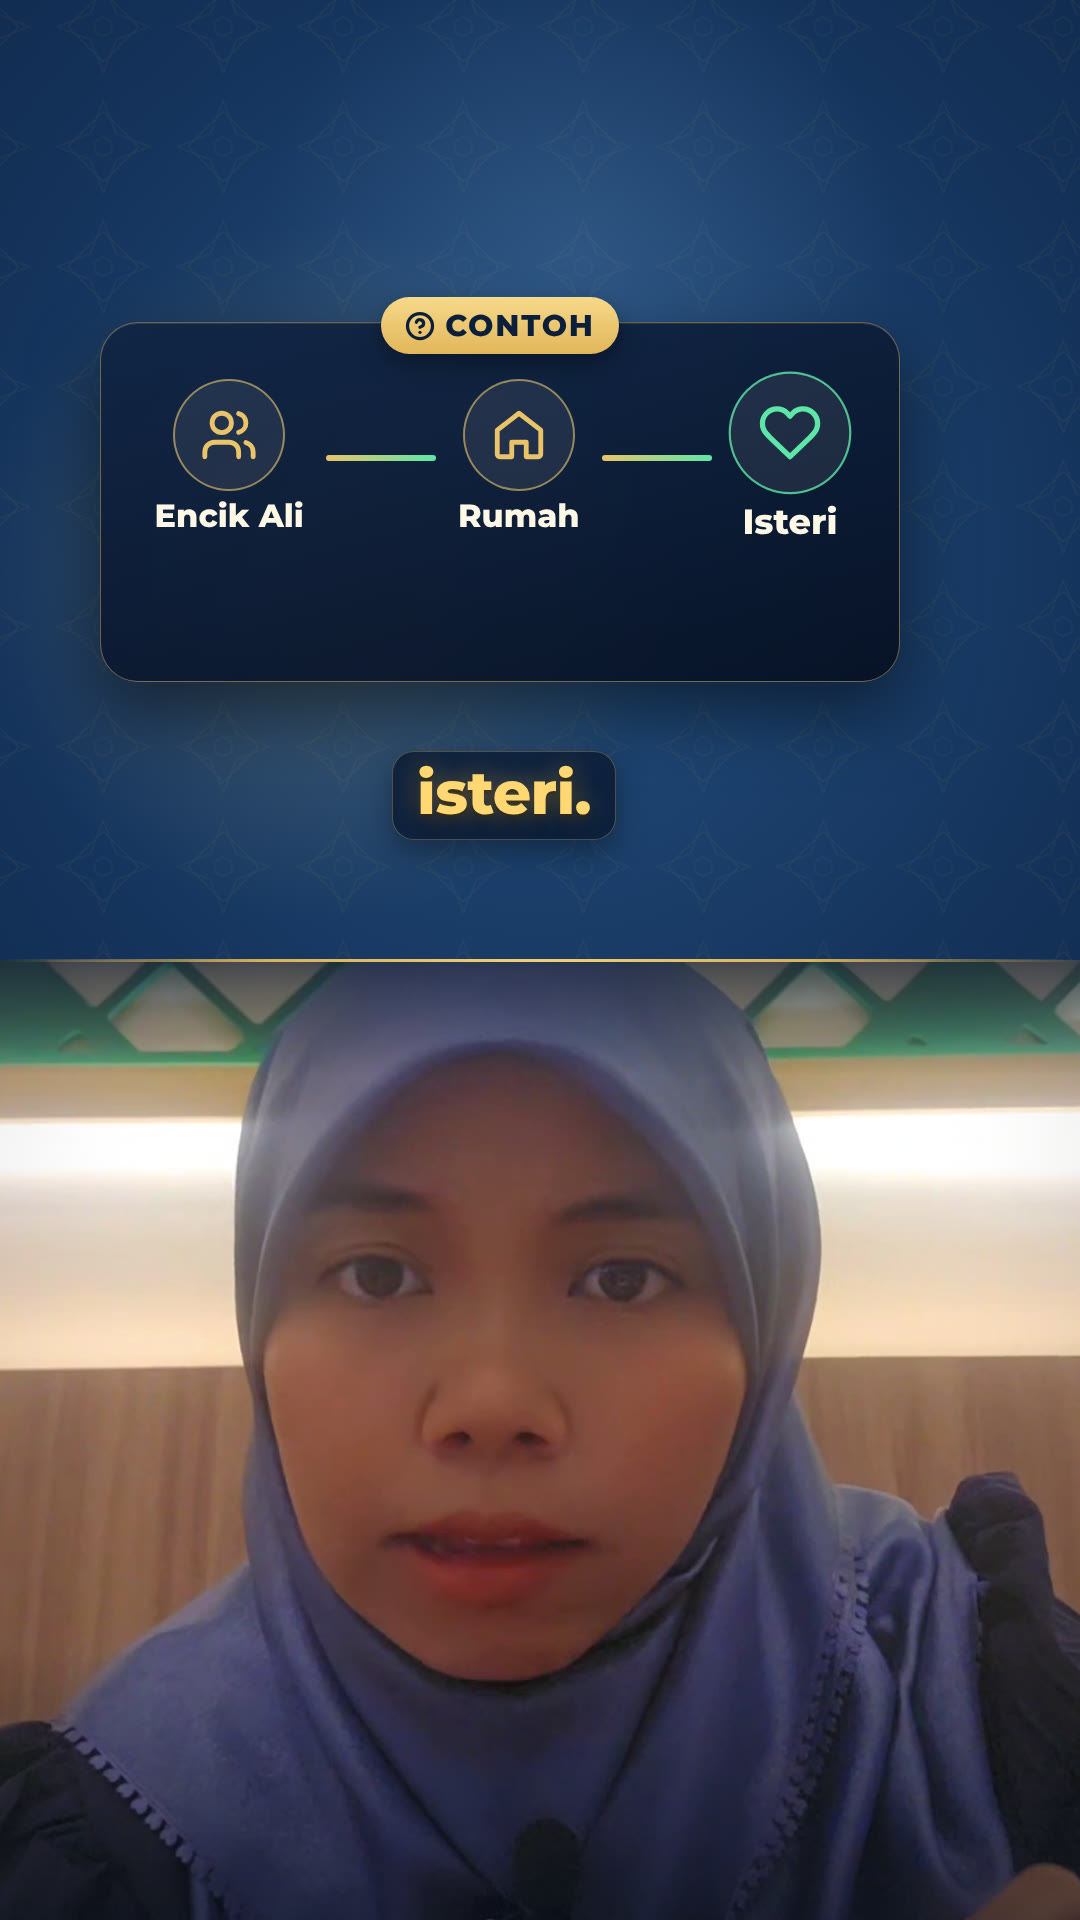
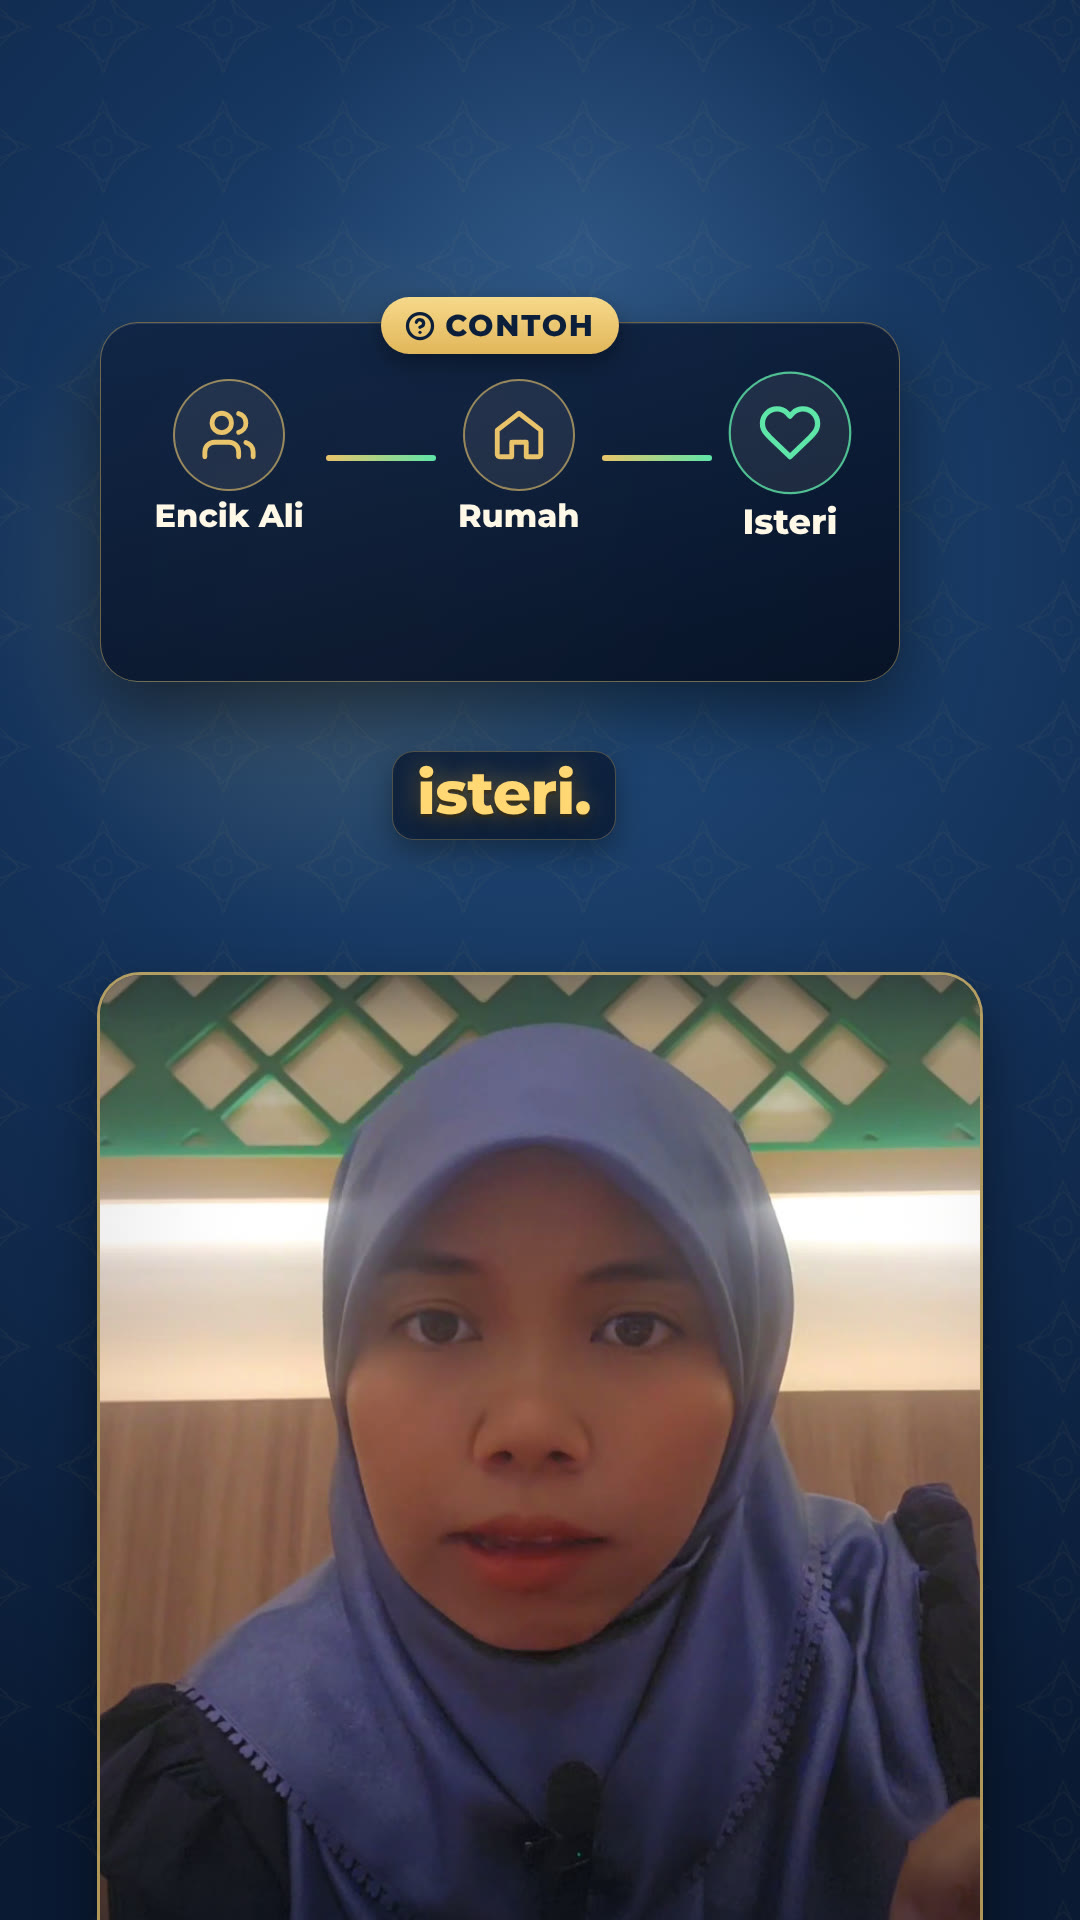
Shrink the speaker into a framed window so the whole hijab stays in frame
Claude-Session: https://claude.ai/code/session_01RHe32gyipqnpCdvLq9eXyk

Changed region(s): [[0.0, 0.5, 1.0, 1.0], [0.0917, 0.9688, 0.1222, 1.0]]

diff --git a/wasiat-hibah-reel/index.html b/wasiat-hibah-reel/index.html
@@ -14,12 +14,13 @@
       .orb { position: absolute; border-radius: 50%; }
       #orb1 { left: -220px; top: 60px; width: 760px; height: 760px; background: radial-gradient(circle, rgba(233,196,106,.20) 0%, rgba(233,196,106,0) 65%); }
       #orb3 { left: 360px; top: -260px; width: 700px; height: 700px; background: radial-gradient(circle, rgba(140,190,240,.16) 0%, rgba(140,190,240,0) 65%); }
-      #stage { position: absolute; left: 0; top: 960px; width: 1080px; height: 960px; z-index: 1; overflow: hidden; background: #0A1A33; }
+      #stage { position: absolute; left: 100px; top: 975px; width: 880px; height: 985px; z-index: 1; overflow: hidden; background: #0A1A33;
+        border-radius: 40px; box-shadow: 0 0 0 3px rgba(233,196,106,.75), 0 24px 60px rgba(0,0,0,.5); }
       #shake { position: absolute; inset: -20px; }
       #cam { position: absolute; left: 20px; top: 20px; width: 1080px; height: 1920px; transform-origin: 0 0; }
       #aroll { position: absolute; left: 0; top: 0; width: 1080px; height: 1920px; object-fit: cover; }
       #stage-vig { position: absolute; inset: 0; z-index: 2; pointer-events: none;
-        background: linear-gradient(180deg, rgba(10,26,51,.65) 0%, rgba(10,26,51,0) 12%, rgba(10,26,51,0) 72%, rgba(6,15,32,.5) 100%); }
+        background: linear-gradient(180deg, rgba(10,26,51,.30) 0%, rgba(10,26,51,0) 6%, rgba(10,26,51,0) 72%, rgba(6,15,32,.5) 100%); }
       #stage-line { position: absolute; left: 0; width: 1080px; top: 959px; height: 3px; z-index: 3;
         background: linear-gradient(90deg, rgba(217,178,92,0), #D9B25C 25%, #F2CF76 50%, #D9B25C 75%, rgba(217,178,92,0)); }
       #flash { position: absolute; inset: 0; z-index: 9; background: #fff; opacity: 0; }
@@ -33,7 +34,6 @@
       <div id="stage" data-layout-ignore><div id="shake"><div id="cam">
         <video id="aroll" data-color-grading="{&quot;preset&quot;:&quot;skin-soft&quot;,&quot;intensity&quot;:0.6,&quot;adjust&quot;:{&quot;exposure&quot;:0.13,&quot;contrast&quot;:0.08,&quot;highlights&quot;:-0.24,&quot;shadows&quot;:0.12,&quot;whites&quot;:-0.06,&quot;blacks&quot;:0,&quot;temperature&quot;:0.03,&quot;tint&quot;:0.01,&quot;vibrance&quot;:0.06,&quot;saturation&quot;:0.04},&quot;details&quot;:{&quot;vignette&quot;:0.12,&quot;vignetteMidpoint&quot;:0.5,&quot;vignetteRoundness&quot;:0,&quot;vignetteFeather&quot;:0.65,&quot;grain&quot;:0,&quot;grainSize&quot;:0.25,&quot;grainRoughness&quot;:0.5},&quot;effects&quot;:{&quot;blur&quot;:0,&quot;pixelate&quot;:0,&quot;chromaBleed&quot;:0,&quot;tapeDamage&quot;:0,&quot;tapeTracking&quot;:0,&quot;tapeNoise&quot;:1,&quot;tapeSpeed&quot;:0.5,&quot;filmArtifacts&quot;:0,&quot;halftone&quot;:0,&quot;halftoneSize&quot;:0,&quot;twoInkPrint&quot;:0,&quot;twoInkPrintSize&quot;:0,&quot;ascii&quot;:0,&quot;asciiSize&quot;:0.06578947368421052,&quot;asciiInvert&quot;:0,&quot;asciiStyle&quot;:0,&quot;asciiColor&quot;:1,&quot;asciiRotation&quot;:0,&quot;dither&quot;:0,&quot;ditherSize&quot;:0,&quot;bloom&quot;:0,&quot;bloomRadius&quot;:8,&quot;monoScreen&quot;:0,&quot;monoScreenSize&quot;:0,&quot;monoScreenAngle&quot;:0,&quot;monoScreenSpread&quot;:0,&quot;monoScreenShape&quot;:0,&quot;monoScreenInvert&quot;:0,&quot;scanlines&quot;:0,&quot;scanlineCount&quot;:0,&quot;scanlineSoftness&quot;:0,&quot;chromaticAberration&quot;:0,&quot;chromaticAngle&quot;:0,&quot;crtCurvature&quot;:0,&quot;digitalGlitch&quot;:0,&quot;digitalGlitchColorSplit&quot;:0,&quot;digitalGlitchLineTear&quot;:0,&quot;digitalGlitchPixelate&quot;:0,&quot;digitalGlitchBlockAmount&quot;:0,&quot;digitalGlitchBlockDisplacement&quot;:0,&quot;digitalGlitchBlockOpacity&quot;:0,&quot;digitalGlitchSpeed&quot;:0,&quot;engraving&quot;:0,&quot;engravingSpacing&quot;:0.4117647058823529,&quot;engravingMinThickness&quot;:0.2,&quot;engravingMaxThickness&quot;:0.4571428571428572,&quot;engravingAngle&quot;:0.25,&quot;engravingContrast&quot;:0.4666666666666667,&quot;engravingSharpness&quot;:0.59,&quot;engravingWave&quot;:0.2,&quot;engravingWaveFrequency&quot;:0.2222222222222222,&quot;crosshatch&quot;:0,&quot;crosshatchSpacing&quot;:0.28,&quot;crosshatchThickness&quot;:0.25,&quot;crosshatchAngle&quot;:0.25,&quot;crosshatchContrast&quot;:0.3333333333333333,&quot;crosshatchEdges&quot;:0.5,&quot;crosshatchLineWeight&quot;:0,&quot;crosshatchWave&quot;:0.33,&quot;crosshatchWaveFrequency&quot;:0.2222222222222222,&quot;kuwahara&quot;:0,&quot;kuwaharaRadius&quot;:0.14285714285714285,&quot;kuwaharaSharpness&quot;:0.3125,&quot;kuwaharaSaturation&quot;:0.5},&quot;lut&quot;:null,&quot;colorSpace&quot;:&quot;rec709&quot;}" class="clip" src="assets/aroll.mp4" data-start="0" data-duration="110.18" data-track-index="0" muted playsinline></video>
       </div></div><div id="stage-vig"></div></div>
-      <div id="stage-line" data-layout-ignore></div>
       <audio id="voice" class="clip" src="assets/voice.wav" data-start="0" data-duration="110.18" data-volume="1" data-track-index="1"></audio>
       <div id="hook" class="clip scene" data-composition-id="hook" data-composition-src="compositions/hook.html" data-start="0.0" data-duration="4.8" data-track-index="2" data-track-kind="graphics" data-width="1080" data-height="1920"></div>
       <div id="tidak" class="clip scene" data-composition-id="tidak" data-composition-src="compositions/tidak.html" data-start="4.8" data-duration="2.25" data-track-index="2" data-track-kind="graphics" data-width="1080" data-height="1920"></div>
@@ -127,12 +127,12 @@
     </div>
     <script>
       const tl = gsap.timeline({ paused: true });
-      const CAM = [[0.0, 0.273, 0.0, -660.0, 1.0, -10.1, -679.0, 1.02], [0.273, 2.303, 0.0, -660.0, 1.0, -10.1, -679.0, 1.02], [2.576, 1.939, -60.6, -774.0, 1.12, -70.7, -793.0, 1.14], [4.515, 0.333, 0.0, -660.0, 1.0, -10.1, -679.0, 1.02], [4.848, 1.091, 0.0, -660.0, 1.0, -10.1, -679.0, 1.02], [5.939, 1.061, -60.6, -774.0, 1.12, -70.7, -793.0, 1.14], [7.0, 0.455, 0.0, -660.0, 1.0, -10.1, -679.0, 1.02], [7.455, 2.182, 0.0, -660.0, 1.0, -10.1, -679.0, 1.02], [9.636, 4.273, -60.6, -774.0, 1.12, -70.7, -793.0, 1.14], [13.909, 0.303, 0.0, -660.0, 1.0, -10.1, -679.0, 1.02], [14.212, 1.152, 0.0, -660.0, 1.0, -10.1, -679.0, 1.02], [15.364, 1.636, -60.6, -774.0, 1.12, -70.7, -793.0, 1.14], [17.0, 2.606, 0.0, -660.0, 1.0, -10.1, -679.0, 1.02], [19.606, 3.0, -60.6, -774.0, 1.12, -70.7, -793.0, 1.14], [22.606, 3.545, 0.0, -660.0, 1.0, -10.1, -679.0, 1.02], [26.152, 3.485, -60.6, -774.0, 1.12, -70.7, -793.0, 1.14], [29.636, 0.364, 0.0, -660.0, 1.0, -10.1, -679.0, 1.02], [30.0, 2.515, 0.0, -660.0, 1.0, -10.1, -679.0, 1.02], [32.515, 1.333, -60.6, -774.0, 1.12, -70.7, -793.0, 1.14], [33.848, 2.455, 0.0, -660.0, 1.0, -10.1, -679.0, 1.02], [36.303, 2.818, -60.6, -774.0, 1.12, -70.7, -793.0, 1.14], [39.121, 1.121, 0.0, -660.0, 1.0, -10.1, -679.0, 1.02], [40.242, 2.212, -60.6, -774.0, 1.12, -70.7, -793.0, 1.14], [42.455, 0.515, 0.0, -660.0, 1.0, -10.1, -679.0, 1.02], [42.97, 0.848, 0.0, -660.0, 1.0, -10.1, -679.0, 1.02], [43.818, 1.303, -60.6, -774.0, 1.12, -70.7, -793.0, 1.14], [45.121, 1.121, 0.0, -660.0, 1.0, -10.1, -679.0, 1.02], [46.242, 1.939, -60.6, -774.0, 1.12, -70.7, -793.0, 1.14], [48.182, 0.424, 0.0, -660.0, 1.0, -10.1, -679.0, 1.02], [48.606, 0.576, 0.0, -660.0, 1.0, -10.1, -679.0, 1.02], [49.182, 5.455, -60.6, -774.0, 1.12, -70.7, -793.0, 1.14], [54.636, 1.152, 0.0, -660.0, 1.0, -10.1, -679.0, 1.02], [55.788, 2.212, -60.6, -774.0, 1.12, -70.7, -793.0, 1.14], [58.0, 0.242, 0.0, -660.0, 1.0, -10.1, -679.0, 1.02], [58.242, 0.758, 0.0, -660.0, 1.0, -10.1, -679.0, 1.02], [59.0, 1.515, -60.6, -774.0, 1.12, -70.7, -793.0, 1.14], [60.515, 2.727, 0.0, -660.0, 1.0, -10.1, -679.0, 1.02], [63.242, 2.212, -60.6, -774.0, 1.12, -70.7, -793.0, 1.14], [65.455, 0.273, 0.0, -660.0, 1.0, -10.1, -679.0, 1.02], [65.727, 4.576, 0.0, -660.0, 1.0, -10.1, -679.0, 1.02], [70.303, 5.727, -60.6, -774.0, 1.12, -70.7, -793.0, 1.14], [76.03, 0.576, 0.0, -660.0, 1.0, -10.1, -679.0, 1.02], [76.606, 0.909, 0.0, -660.0, 1.0, -10.1, -679.0, 1.02], [77.515, 2.455, -60.6, -774.0, 1.12, -70.7, -793.0, 1.14], [79.97, 2.212, 0.0, -660.0, 1.0, -10.1, -679.0, 1.02], [82.182, 4.061, -60.6, -774.0, 1.12, -70.7, -793.0, 1.14], [86.242, 2.0, 0.0, -660.0, 1.0, -10.1, -679.0, 1.02], [88.242, 6.758, -60.6, -774.0, 1.12, -70.7, -793.0, 1.14], [95.0, 0.333, 0.0, -660.0, 1.0, -10.1, -679.0, 1.02], [95.333, 3.939, 0.0, -660.0, 1.0, -10.1, -679.0, 1.02], [99.273, 1.667, -60.6, -774.0, 1.12, -70.7, -793.0, 1.14], [100.939, 0.242, 0.0, -660.0, 1.0, -10.1, -679.0, 1.02], [101.182, 2.242, 0.0, -660.0, 1.0, -10.1, -679.0, 1.02], [103.424, 2.909, -60.6, -774.0, 1.12, -70.7, -793.0, 1.14], [106.333, 0.242, 0.0, -660.0, 1.0, -10.1, -679.0, 1.02], [106.576, 3.606, 0.0, -660.0, 1.0, -10.1, -679.0, 1.02]];
+      const CAM = [[0.0, 0.273, -12.0, -468.0, 0.84, -12.0, -482.25, 0.855], [0.273, 2.303, -12.0, -468.0, 0.84, -12.0, -482.25, 0.855], [2.576, 1.939, -14.5, -525.0, 0.9, -22.08, -539.25, 0.915], [4.515, 0.333, -12.0, -468.0, 0.84, -12.0, -482.25, 0.855], [4.848, 1.091, -12.0, -468.0, 0.84, -12.0, -482.25, 0.855], [5.939, 1.061, -14.5, -525.0, 0.9, -22.08, -539.25, 0.915], [7.0, 0.455, -12.0, -468.0, 0.84, -12.0, -482.25, 0.855], [7.455, 2.182, -12.0, -468.0, 0.84, -12.0, -482.25, 0.855], [9.636, 4.273, -14.5, -525.0, 0.9, -22.08, -539.25, 0.915], [13.909, 0.303, -12.0, -468.0, 0.84, -12.0, -482.25, 0.855], [14.212, 1.152, -12.0, -468.0, 0.84, -12.0, -482.25, 0.855], [15.364, 1.636, -14.5, -525.0, 0.9, -22.08, -539.25, 0.915], [17.0, 2.606, -12.0, -468.0, 0.84, -12.0, -482.25, 0.855], [19.606, 3.0, -14.5, -525.0, 0.9, -22.08, -539.25, 0.915], [22.606, 3.545, -12.0, -468.0, 0.84, -12.0, -482.25, 0.855], [26.152, 3.485, -14.5, -525.0, 0.9, -22.08, -539.25, 0.915], [29.636, 0.364, -12.0, -468.0, 0.84, -12.0, -482.25, 0.855], [30.0, 2.515, -12.0, -468.0, 0.84, -12.0, -482.25, 0.855], [32.515, 1.333, -14.5, -525.0, 0.9, -22.08, -539.25, 0.915], [33.848, 2.455, -12.0, -468.0, 0.84, -12.0, -482.25, 0.855], [36.303, 2.818, -14.5, -525.0, 0.9, -22.08, -539.25, 0.915], [39.121, 1.121, -12.0, -468.0, 0.84, -12.0, -482.25, 0.855], [40.242, 2.212, -14.5, -525.0, 0.9, -22.08, -539.25, 0.915], [42.455, 0.515, -12.0, -468.0, 0.84, -12.0, -482.25, 0.855], [42.97, 0.848, -12.0, -468.0, 0.84, -12.0, -482.25, 0.855], [43.818, 1.303, -14.5, -525.0, 0.9, -22.08, -539.25, 0.915], [45.121, 1.121, -12.0, -468.0, 0.84, -12.0, -482.25, 0.855], [46.242, 1.939, -14.5, -525.0, 0.9, -22.08, -539.25, 0.915], [48.182, 0.424, -12.0, -468.0, 0.84, -12.0, -482.25, 0.855], [48.606, 0.576, -12.0, -468.0, 0.84, -12.0, -482.25, 0.855], [49.182, 5.455, -14.5, -525.0, 0.9, -22.08, -539.25, 0.915], [54.636, 1.152, -12.0, -468.0, 0.84, -12.0, -482.25, 0.855], [55.788, 2.212, -14.5, -525.0, 0.9, -22.08, -539.25, 0.915], [58.0, 0.242, -12.0, -468.0, 0.84, -12.0, -482.25, 0.855], [58.242, 0.758, -12.0, -468.0, 0.84, -12.0, -482.25, 0.855], [59.0, 1.515, -14.5, -525.0, 0.9, -22.08, -539.25, 0.915], [60.515, 2.727, -12.0, -468.0, 0.84, -12.0, -482.25, 0.855], [63.242, 2.212, -14.5, -525.0, 0.9, -22.08, -539.25, 0.915], [65.455, 0.273, -12.0, -468.0, 0.84, -12.0, -482.25, 0.855], [65.727, 4.576, -12.0, -468.0, 0.84, -12.0, -482.25, 0.855], [70.303, 5.727, -14.5, -525.0, 0.9, -22.08, -539.25, 0.915], [76.03, 0.576, -12.0, -468.0, 0.84, -12.0, -482.25, 0.855], [76.606, 0.909, -12.0, -468.0, 0.84, -12.0, -482.25, 0.855], [77.515, 2.455, -14.5, -525.0, 0.9, -22.08, -539.25, 0.915], [79.97, 2.212, -12.0, -468.0, 0.84, -12.0, -482.25, 0.855], [82.182, 4.061, -14.5, -525.0, 0.9, -22.08, -539.25, 0.915], [86.242, 2.0, -12.0, -468.0, 0.84, -12.0, -482.25, 0.855], [88.242, 6.758, -14.5, -525.0, 0.9, -22.08, -539.25, 0.915], [95.0, 0.333, -12.0, -468.0, 0.84, -12.0, -482.25, 0.855], [95.333, 3.939, -12.0, -468.0, 0.84, -12.0, -482.25, 0.855], [99.273, 1.667, -14.5, -525.0, 0.9, -22.08, -539.25, 0.915], [100.939, 0.242, -12.0, -468.0, 0.84, -12.0, -482.25, 0.855], [101.182, 2.242, -12.0, -468.0, 0.84, -12.0, -482.25, 0.855], [103.424, 2.909, -14.5, -525.0, 0.9, -22.08, -539.25, 0.915], [106.333, 0.242, -12.0, -468.0, 0.84, -12.0, -482.25, 0.855], [106.576, 3.606, -12.0, -468.0, 0.84, -12.0, -482.25, 0.855]];
       CAM.forEach(([t, d, x0, y0, s0, x1, y1, s1]) => {
         tl.set('#cam', { x: x0, y: y0, scale: s0 }, t);
         tl.to('#cam', { x: x1, y: y1, scale: s1, duration: d, ease: 'none' }, t);
       });
-      tl.to('#cam', { x: -126.25, y: -897.5, scale: 1.25, duration: 0.25, ease: 'power3.out' }, 7.42);
+      tl.to('#cam', { x: -39.75, y: -572.5, scale: 0.95, duration: 0.25, ease: 'power3.out' }, 7.42);
       tl.set('#flash', { opacity: 0 }, 0);
       tl.fromTo('#orb1', { x: 0, y: 0 }, { x: 200, y: 160, duration: 110.18, ease: 'sine.inOut' }, 0);
       tl.fromTo('#orb3', { x: 0, y: 0 }, { x: -160, y: 200, duration: 110.18, ease: 'sine.inOut' }, 0);

diff --git a/wasiat-hibah-reel/tools/build.py b/wasiat-hibah-reel/tools/build.py
@@ -456,18 +456,25 @@ with open(os.path.join(PROJ, "compositions", "captions.html"), "w") as f:
 # Split layout: navy panel area on top (cards + captions), speaker in the stage y 960..1920.
 STAGE_T = 960
 FX, FY = 505.0, 950.0     # face anchor in source px
-SX, SY = 505.0, 290.0     # where that anchor sits inside the stage (stage-relative px)
+# The speaker sits in a framed window (x 100..980, y 975..1920) at 0.82x so the whole
+# hijab stays inside the frame, even on the punch-ins.
+WIN_L, WIN_T, WIN_W = 100, 975, 880
+WIN_H = H - WIN_T
+SX, SY = WIN_W / 2, 330.0  # where that anchor sits inside the window (window-relative px)
+BASE, PUNCH = 0.84, 0.90
 def tf(s):
-    return [round(SX - FX * s, 2), round(SY - FY * s, 2), round(s, 4)]
+    x = min(-12.0, max(WIN_W - W * s + 12, SX - FX * s))   # never show the edge of the footage (12 px spare for shakes)
+    y = min(0.0, max(WIN_H + 40 - H * s, SY - FY * s))
+    return [round(x, 2), round(y, 2), round(s, 4)]
 cam, big, held = [], False, 0.0
 for i, p in enumerate(pieces):
     if i > 0 and held >= 1.0:
         big = not big; held = 0.0
     held += p["od"]
-    sc = 1.12 if big else 1.0
-    cam.append([round(p["out0"], 3), round(p["od"], 3)] + tf(sc) + tf(sc + 0.02))
+    sc = PUNCH if big else BASE
+    cam.append([round(p["out0"], 3), round(p["od"], 3)] + tf(sc) + tf(sc + 0.015))
 # Giant hook: hard punch to 1.25 under the overlay; last segment push-in
-GIANT_PUSH = tf(1.25)
+GIANT_PUSH = tf(0.95)
 
 # ================================================================ SFX (no music)
 SFX = [
@@ -523,12 +530,13 @@ index = f"""<!doctype html>
       .orb {{ position: absolute; border-radius: 50%; }}
       #orb1 {{ left: -220px; top: 60px; width: 760px; height: 760px; background: radial-gradient(circle, rgba(233,196,106,.20) 0%, rgba(233,196,106,0) 65%); }}
       #orb3 {{ left: 360px; top: -260px; width: 700px; height: 700px; background: radial-gradient(circle, rgba(140,190,240,.16) 0%, rgba(140,190,240,0) 65%); }}
-      #stage {{ position: absolute; left: 0; top: {STAGE_T}px; width: {W}px; height: {H - STAGE_T}px; z-index: 1; overflow: hidden; background: #0A1A33; }}
+      #stage {{ position: absolute; left: {WIN_L}px; top: {WIN_T}px; width: {WIN_W}px; height: {WIN_H + 40}px; z-index: 1; overflow: hidden; background: #0A1A33;
+        border-radius: 40px; box-shadow: 0 0 0 3px rgba(233,196,106,.75), 0 24px 60px rgba(0,0,0,.5); }}
       #shake {{ position: absolute; inset: -20px; }}
       #cam {{ position: absolute; left: 20px; top: 20px; width: {W}px; height: {H}px; transform-origin: 0 0; }}
       #aroll {{ position: absolute; left: 0; top: 0; width: {W}px; height: {H}px; object-fit: cover; }}
       #stage-vig {{ position: absolute; inset: 0; z-index: 2; pointer-events: none;
-        background: linear-gradient(180deg, rgba(10,26,51,.65) 0%, rgba(10,26,51,0) 12%, rgba(10,26,51,0) 72%, rgba(6,15,32,.5) 100%); }}
+        background: linear-gradient(180deg, rgba(10,26,51,.30) 0%, rgba(10,26,51,0) 6%, rgba(10,26,51,0) 72%, rgba(6,15,32,.5) 100%); }}
       #stage-line {{ position: absolute; left: 0; width: {W}px; top: {STAGE_T - 1}px; height: 3px; z-index: 3;
         background: linear-gradient(90deg, rgba(217,178,92,0), #D9B25C 25%, #F2CF76 50%, #D9B25C 75%, rgba(217,178,92,0)); }}
       #flash {{ position: absolute; inset: 0; z-index: 9; background: #fff; opacity: 0; }}
@@ -542,7 +550,6 @@ index = f"""<!doctype html>
       <div id="stage" data-layout-ignore><div id="shake"><div id="cam">
         <video id="aroll" class="clip" src="assets/aroll.mp4" data-start="0" data-duration="{D}" data-track-index="0" muted playsinline></video>
       </div></div><div id="stage-vig"></div></div>
-      <div id="stage-line" data-layout-ignore></div>
       <audio id="voice" class="clip" src="assets/voice.wav" data-start="0" data-duration="{D}" data-volume="1" data-track-index="1"></audio>
 {chr(10).join(hosts)}
       <div id="captions" class="clip" data-composition-id="captions" data-composition-src="compositions/captions.html" data-start="0" data-duration="{D}" data-track-index="3" data-track-kind="captions" data-width="{W}" data-height="{H}"></div>

diff --git a/wasiat-hibah-reel/README.md b/wasiat-hibah-reel/README.md
@@ -19,7 +19,7 @@ Still frames from the current edit are in `../preview-wh/`.
 3. **Media** (`tools/cut_media.py`, outputs kept out of git): `assets/aroll.mp4` (muted, graded in HyperFrames) and `assets/voice.wav`.
 4. **Audio**: highpass at 85 Hz, RNNoise (`sh.rnnn`, mix 0.85) + FFT denoise, EQ (−2.5 dB at 250 Hz, +2.5 dB at 3.2 kHz, −1.5 dB air shelf), compressor (3:1), loudness normalised to −14 LUFS / −1.5 dBTP. No music. 74 sound effects (whoosh, pop, impact, stamp, ding, tick, lock, clock, riser), mixed at 0.16–0.55 under the voice.
 5. **Look**: `media-treatment` skin-soft grade (intensity 0.6; exposure +0.13, highlights −0.24 to tame the LED strip, shadows +0.12, contrast +0.08, temperature +0.03, vibrance +0.06, vignette 0.12). See `tools/grade.json`.
-6. **Layout**: split screen. Navy and gold cards sit on top, and the speaker fills the bottom stage (y 960–1920). Framing alternates between 1.00× and 1.12× punch-ins at cuts to hide jump cuts, with a slow push-in. The giant hook adds a hard 1.25× punch.
+6. **Layout**: split screen. Navy and gold cards sit on top, and the speaker sits in a gold-framed window (x 100–980, y 975–1920) at 0.84× so the whole hijab stays in frame. Framing alternates between 0.84× and 0.90× punch-ins at cuts to hide jump cuts, with a slow push-in. The giant hook punches to 0.95×.
 7. **Safe zones**: all text sits inside the shared TikTok / Reels / Shorts safe area (y 288–1248; x 120–888, narrowing to 120–780 below y 840). Cards sit at y 296–714. Captions sit in a 768 px band bottom-anchored at y 840, so they never cover the face, the username or the like/comment/share rail. `hyperframes check` passes with 0 errors.
 
 ## Structure
